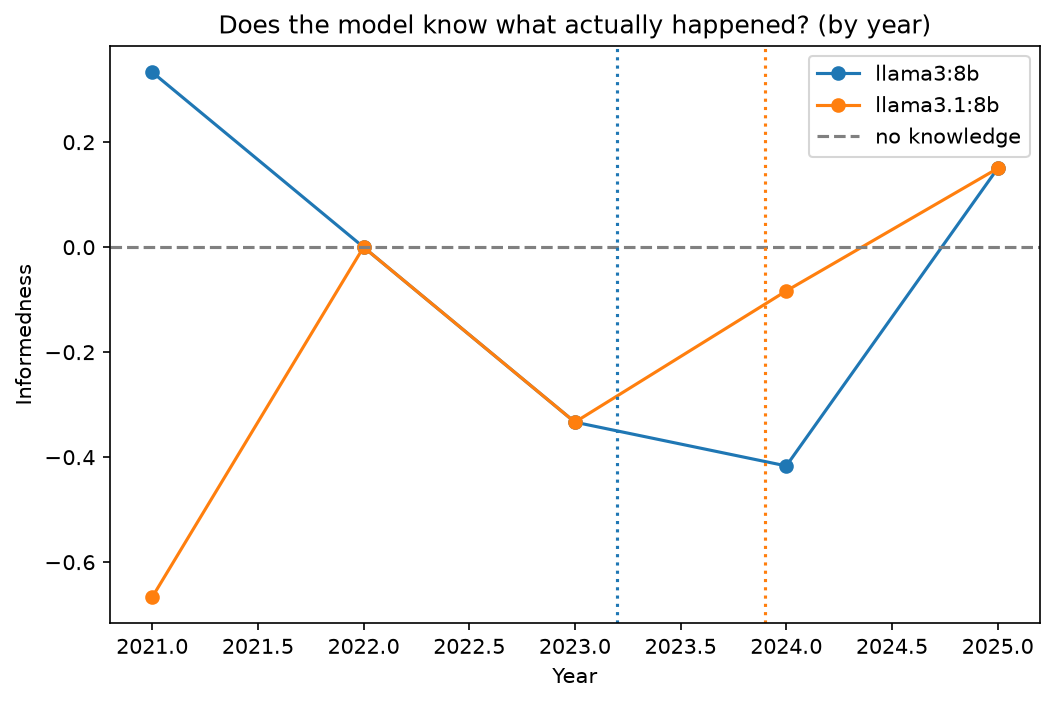
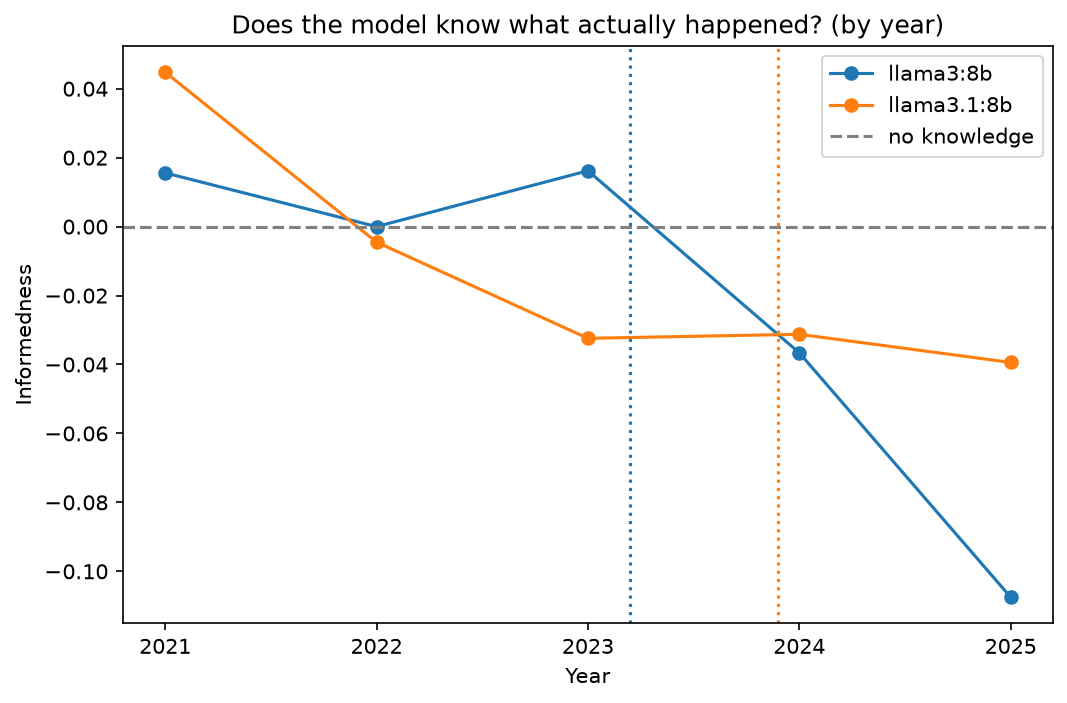
Results: year-level look-ahead bias, final README

diff --git a/src/analyze.py b/src/analyze.py
@@ -11,6 +11,13 @@ def informedness(g, model):
     up_false = (g.loc[g["actual"] == "DOWN", model] == "UP").mean()
     return up_true - up_false
 
+def informedness_se(g, model):
+    up = g.loc[g["actual"] == "UP", model] == "UP"
+    down = g.loc[g["actual"] == "DOWN", model] == "UP"
+    return (up.mean() * (1 - up.mean()) / len(up)
+            + down.mean() * (1 - down.mean()) / len(down)) ** 0.5
+
+
 rows = []
 for model, cutoff in CUTOFFS.items():
     period = df["month"].le(cutoff).map({True: "before", False: "after"})
@@ -22,24 +29,46 @@ for model, cutoff in CUTOFFS.items():
             "said_up": (g[model] == "UP").mean(),
             "accuracy": (g[model] == g["actual"]).mean(),
             "informedness": informedness(g, model),
+            "se": informedness_se(g, model),
         })
 
 summary = pd.DataFrame(rows)
 print(summary.round(3))
 summary.to_csv("results/summary.csv", index=False)
 
+# Is the before/after gap bigger than noise?
+for model in CUTOFFS:
+    s = summary[summary["model"] == model].set_index("period")
+    gap = s.loc["before", "informedness"] - s.loc["after", "informedness"]
+    gap_se = (s.loc["before", "se"] ** 2 + s.loc["after", "se"] ** 2) ** 0.5
+    print(f"{model}: gap = {gap:.3f}, z = {gap / gap_se:.1f}")
+
+
+yearly_table = pd.DataFrame({m: df.groupby("year").apply(lambda g: informedness(g, m))
+                             for m in CUTOFFS})
+print("\nInformedness by year:")
+print(yearly_table.round(3))
+
+
+by_year = df.groupby("year")["actual"].apply(lambda s: (s == "UP").mean()).to_frame("actual_up")
+for m in CUTOFFS:
+    by_year[m + "_said_up"] = df.groupby("year")[m].apply(lambda s: (s == "UP").mean())
+print("\nShare UP by year (actual vs. said):")
+print(by_year.round(3))
+by_year.to_csv("results/by_year.csv")
+
+
 fig, ax = plt.subplots(figsize=(8, 5))
 for model in CUTOFFS:
     yearly = df.groupby("year").apply(lambda g: informedness(g, model))
     ax.plot(yearly.index, yearly.values, marker="o", label=model)
-
 ax.axhline(0, color="gray", ls="--", label="no knowledge")
-ax.axvline(2023.2, ls=":", color="C0") # -> llama3
-ax.axvline(2023.9, ls=":", color="C1") # -> llama3.1
+ax.axvline(2023.2, ls=":", color="C0")   # llama3 cutoff (Mar 2023)
+ax.axvline(2023.9, ls=":", color="C1")   # llama3.1 cutoff (Dec 2023)
 ax.set_xticks(range(2021, 2026))
 ax.set_xlabel("Year")
 ax.set_ylabel("Informedness")
 ax.set_title("Does the model know what actually happened? (by year)")
 ax.legend()
 plt.savefig("results/accuracy_by_year.png", dpi=150, bbox_inches="tight")
-print("Chart saved")
+print("\nChart saved")

diff --git a/README.md b/README.md
@@ -1,0 +1,96 @@
+# LLM Look-Ahead Bias in Trading Backtests
+
+LLMs are trained on historical market data, so backtests that use them can
+quietly "predict" events they already saw. This project measures that effect.
+
+## Key finding
+Both models track real stock moves on dates they saw in training and lose
+that ability after their training cutoff (z = 3.9 and 3.3). But the signal
+comes entirely from **year-level hindsight**: both models answered DOWN to
+essentially every 2022 question (0–0.3% UP vs. 38% actual), yet within any
+single year they could not tell which stocks went up. An LLM-driven backtest
+over 2022 would look brilliant because the model already knew it was a bear
+market, not because it can forecast.
+
+## Method
+- Two local models from the same family with different training cutoffs:
+  Llama 3 8B (Mar 2023) and Llama 3.1 8B (Dec 2023), run via Ollama
+- 1,800 questions per model: 30 large-cap stocks x 60 months (Jan 2021 – Dec 2025)
+- System prompt framing the model as a financial historian; user prompt:
+  "Was [TICKER] stock up or down in [MONTH YEAR]? Respond in JSON."
+- Answers forced to UP/DOWN with JSON-schema constrained decoding; temperature 0
+- Ground truth: split/dividend-adjusted monthly returns from yfinance
+  (54.4% of stock-months were UP)
+- Primary metric: informedness (Youden's J) = P(says UP | actually UP) −
+  P(says UP | actually DOWN). It is 0 for a model with no knowledge,
+  regardless of whether it leans UP or DOWN.
+- Prompt locked before the full run by answer balance only
+  (accuracy never examined), to avoid tuning toward a result
+
+## Results
+
+Before vs. after each model's training cutoff:
+
+| Model | Period | n | Said UP | Accuracy | Informedness (SE) |
+|---|---|---|---|---|---|
+| Llama 3 | before | 810 | 28.3% | 55.4% | **+0.121** (0.031) |
+| Llama 3 | after | 990 | 59.1% | 48.7% | −0.052 (0.031) |
+| Llama 3.1 | before | 1,080 | 28.0% | 53.0% | **+0.087** (0.027) |
+| Llama 3.1 | after | 720 | 85.6% | 52.6% | −0.037 (0.026) |
+
+Before/after gap: **Llama 3: 0.173 (z = 3.9); Llama 3.1: 0.124 (z = 3.3)**
+
+Accuracy alone hides this: Llama 3.1's accuracy is ~53% in both periods.
+
+![Informedness by year](results/accuracy_by_year.png)
+
+Within each year, informedness is ~0 for both models (all within about
+±0.05, roughly one standard error). The pooled "before" signal comes from
+the models' answers shifting with each year's overall market direction:
+
+| Year | Actually UP | Llama 3 said UP | Llama 3.1 said UP |
+|---|---|---|---|
+| 2021 | 61.1% | 61.7% | 59.2% |
+| 2022 | 38.3% | **0.0%** | **0.3%** |
+| 2023 | 60.0% | 23.9% | 24.4% |
+| 2024 | 59.4% | 71.1% | 84.4% |
+| 2025 | 53.1% | 69.4% | 86.7% |
+
+## Findings
+- **Year-level, not stock-level, hindsight.** Models know 2022 was a bear
+  market and answer DOWN to nearly everything, but show no skill at
+  telling stocks apart within a year. This is a Simpson's-paradox pattern:
+  the pooled effect disappears inside each year.
+- **No extra 2023 knowledge for Llama 3.1**, despite training through
+  Dec 2023. Both models treated 2023 like 2022 (~24% UP vs. 60% actual).
+- **Optimism about the unknown:** on post-cutoff dates both models
+  default to UP (69–87%).
+- **Refusal confound:** without constraints, models refused questions about
+  recent dates, which would have faked a look-ahead effect; fixed with
+  constrained decoding.
+- **Prompt sensitivity:** adding "Give your best guess" pushed both models
+  toward DOWN (UP answers rose from under 15% to ~37% of a test sample
+  when removed).
+
+## Limitations
+- Survivorship bias: all 30 stocks are still large today
+- Single prompt template; 8B models only
+- Year-level hindsight means pooled before/after comparisons overstate
+  stock-level skill; within-year analysis is needed
+- One yearly value (Llama 3, 2025: −0.108) is ~2 SE from zero; with 10
+  yearly estimates, one such value is expected by chance
+
+## Next steps
+- Within-month analysis to test for month-level (not just year-level) hindsight
+- Swap answer order ("DOWN or UP") to test position bias
+- Hide tickers and dates to separate memory from reasoning
+- Measure refusal rate by month without forced answers
+- Add more model families with known cutoffs
+
+## Run it
+    pip install -r requirements.txt
+    python src/get_prices.py
+    python src/ask_models.py
+    python src/analyze.py
+
+Full experiment log: [LAB_NOTES.md](LAB_NOTES.md)

diff --git a/LAB_NOTES.md b/LAB_NOTES.md
@@ -73,3 +73,23 @@
   not knowledge
 - Housekeeping: old 40-row predictions.csv (refusal-era test) will be
   overwritten by the full run; verify 1,800 rows before analyzing
+
+  ## 2026-10-25 — Full run + results (Phase 4)
+- Full run: 3,600 questions in 4,120 s (~69 min); 0 UNCLEAR
+- Overall UP rate: llama3 45%, llama3.1 51% (actual 54.4%)
+- Pooled informedness before → after cutoff:
+  - llama3: +0.121 → −0.052, gap 0.173, z = 3.9
+  - llama3.1: +0.087 → −0.037, gap 0.124, z = 3.3
+- Accuracy nearly flat (llama3.1 ~53% both periods) → informedness was
+  the right metric
+- BUT within-year informedness ≈ 0 for both models in every year
+  (largest: llama3 2025 −0.108, ~2 SE, likely chance across 10 estimates)
+- Explanation (confirmed with said-UP by year): year-level hindsight.
+  Both models answered DOWN to ~100% of 2022 questions (actual 38% UP),
+  matching the bear market, but can't distinguish stocks within a year.
+  Simpson's paradox: pooled effect vanishes inside each year.
+- Pre-planned 2023 test: no llama3.1 advantage (−0.032 vs +0.016);
+  both treated 2023 like 2022 (~24% said UP vs 60% actual)
+- Post-cutoff: both default to optimism (69–87% UP in 2024–2025)
+- Conclusion: look-ahead bias is real and significant but market-level,
+  not stock-level memorization
